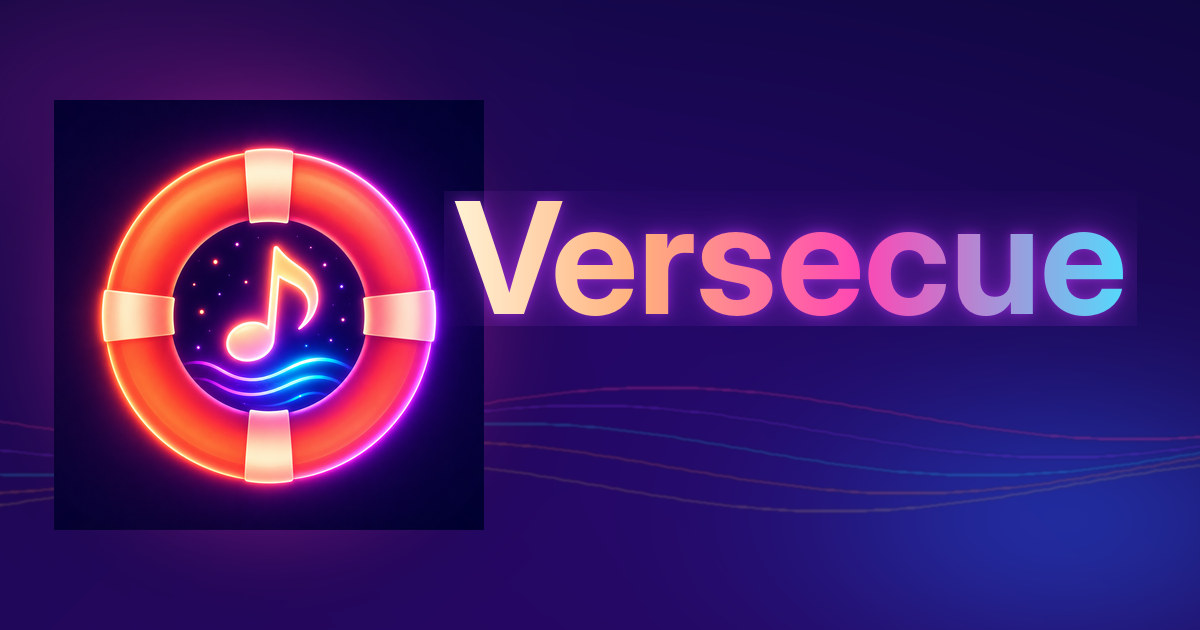
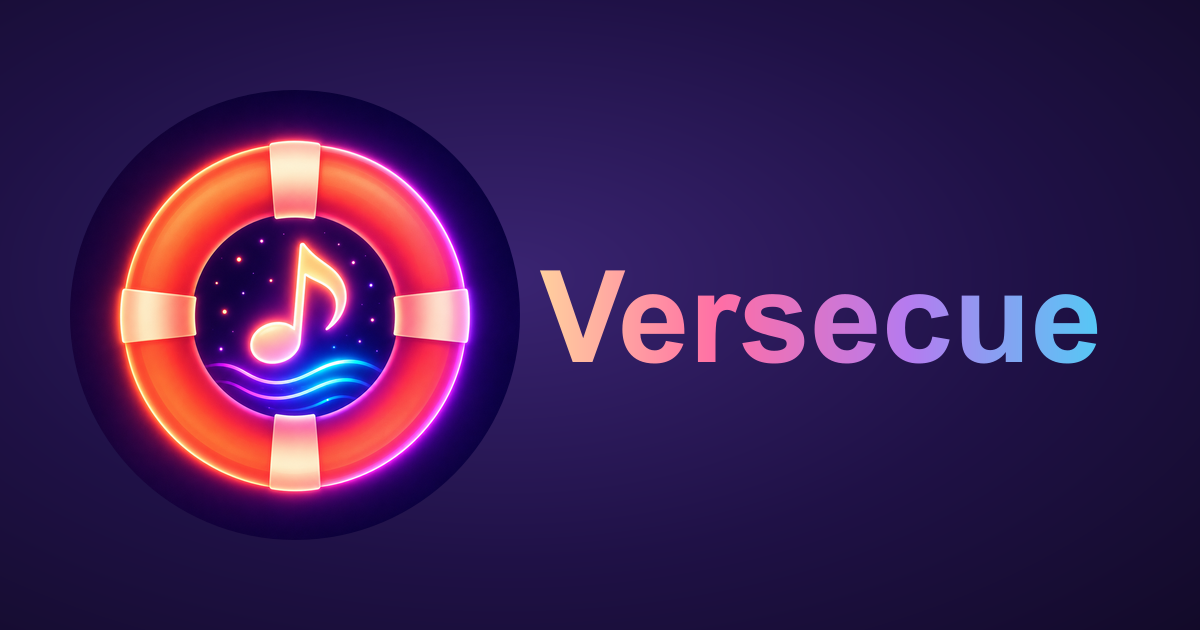
Custom domain versecue.net + Shared Lists rename + og-image/artist fixes
- Point og:url / og:image / twitter:image / APP_SHARE_URL at https://versecue.net
  (CNAME already added by GitHub Pages). og:image cache-busted (?v=2).
- New og-image: circular logo (no dark square box) + gradient wordmark on a
  smooth purple gradient — the old banner's hard box read badly in link previews.
- Rename the 'Other Lists' tab to 'Shared Lists' (+ republish tooltip wording).
- Artist input in the editor spans the full width again (wrapping it for the
  autocomplete dropdown had dropped the flex stretch).

sw cache -> versecue-v10.

diff --git a/index.html b/index.html
@@ -8,13 +8,13 @@
 <title>Versecue</title>
 <meta property="og:title" content="Versecue — Karaoke Reading Aid">
 <meta property="og:description" content="Sing karaoke in any language — Versecue prints the reading (furigana, romaji, Hangul, pinyin) above every lyric so you can sing along, even offline.">
-<meta property="og:url" content="https://godwincjh.github.io/versecue/">
-<meta property="og:image" content="https://godwincjh.github.io/versecue/icons/og-image.png">
+<meta property="og:url" content="https://versecue.net/">
+<meta property="og:image" content="https://versecue.net/icons/og-image.png?v=2">
 <meta property="og:type" content="website">
 <meta name="twitter:card" content="summary_large_image">
 <meta name="twitter:title" content="Versecue — Karaoke Reading Aid">
 <meta name="twitter:description" content="Sing karaoke in any language — Versecue prints the reading (furigana, romaji, Hangul, pinyin) above every lyric so you can sing along, even offline.">
-<meta name="twitter:image" content="https://godwincjh.github.io/versecue/icons/og-image.png">
+<meta name="twitter:image" content="https://versecue.net/icons/og-image.png?v=2">
 <link rel="manifest" href="manifest.webmanifest">
 <link rel="icon" href="icons/favicon.ico?v=3" sizes="any">
 <link rel="icon" type="image/png" sizes="32x32" href="icons/favicon-32.png?v=3">
@@ -36,7 +36,7 @@
   <div class="tabbar">
     <button class="tab" data-tab="public">Public List</button>
     <button class="tab active" data-tab="library">My List</button>
-    <button class="tab" data-tab="other">Other Lists</button>
+    <button class="tab" data-tab="other">Shared Lists</button>
   </div>
   <div class="search-bar">
     <input id="library-search-input" type="text" class="search-input" placeholder="Search your songs by title or artist" autocomplete="off">
@@ -69,7 +69,7 @@
   <div class="tabbar">
     <button class="tab active" data-tab="public">Public List</button>
     <button class="tab" data-tab="library">My List</button>
-    <button class="tab" data-tab="other">Other Lists</button>
+    <button class="tab" data-tab="other">Shared Lists</button>
   </div>
   <div class="search-bar">
     <input id="public-search-input" type="text" class="search-input" placeholder="Search by song title or artist" autocomplete="off">
@@ -192,7 +192,7 @@
   <div class="tabbar">
     <button class="tab" data-tab="public">Public List</button>
     <button class="tab" data-tab="library">My List</button>
-    <button class="tab active" data-tab="other">Other Lists</button>
+    <button class="tab active" data-tab="other">Shared Lists</button>
   </div>
   <div class="search-bar">
     <input id="other-search-input" type="text" class="search-input" placeholder="Search a list name or a song in your lists" autocomplete="off">

diff --git a/js/library.js b/js/library.js
@@ -58,7 +58,7 @@ function renderLibraryPage() {
     bPublish.textContent = '🌐';
     bPublish.disabled = cantPublish;
     bPublish.title = alreadyPublished ? 'Already published'
-      : song.imported ? 'Songs added from Public List/Other Lists can\'t be republished'
+      : song.imported ? 'Songs added from Public List/Shared Lists can\'t be republished'
       : 'Publish to Public List';
     bPublish.onclick = e => { e.stopPropagation(); if (!cantPublish) confirmPublish(song); };
 

diff --git a/js/state.js b/js/state.js
@@ -12,7 +12,7 @@ const LS_MY_SHARES = 'versecue.myShares';       // codes I generated, to keep pu
 const LS_OTHER_LISTS = 'versecue.otherLists';   // lists others shared with me
 const API_ORIGIN = 'https://versecue-share.pages.dev';
 
-const APP_SHARE_URL = 'https://godwincjh.github.io/versecue/';
+const APP_SHARE_URL = 'https://versecue.net/';
 const APP_SHARE_TEXT = '🎤 Sing karaoke in any language with Versecue — it prints the reading (furigana, romaji, Hangul, pinyin) above every lyric so you can sing along, even offline. Try it free:';
 
 function loadSongs() {

diff --git a/sw.js b/sw.js
@@ -1,7 +1,7 @@
 /* Versecue service worker — cache everything, serve from cache first,
    so the app works with zero network in the karaoke room. */
 
-const CACHE = 'versecue-v9';
+const CACHE = 'versecue-v10';
 
 const ASSETS = [
   './',

diff --git a/style.css b/style.css
@@ -268,6 +268,7 @@ button { font-family: inherit; border: none; cursor: pointer; }
 
 /* ---------- artist autocomplete (editor) ---------- */
 .artist-field { position: relative; }
+.artist-field input { width: 100%; } /* match the full-width title input (wrapping in .artist-field dropped the flex stretch) */
 .artist-suggestions { left: 0; right: 0; z-index: 30; }
 
 /* ---------- toast ---------- */